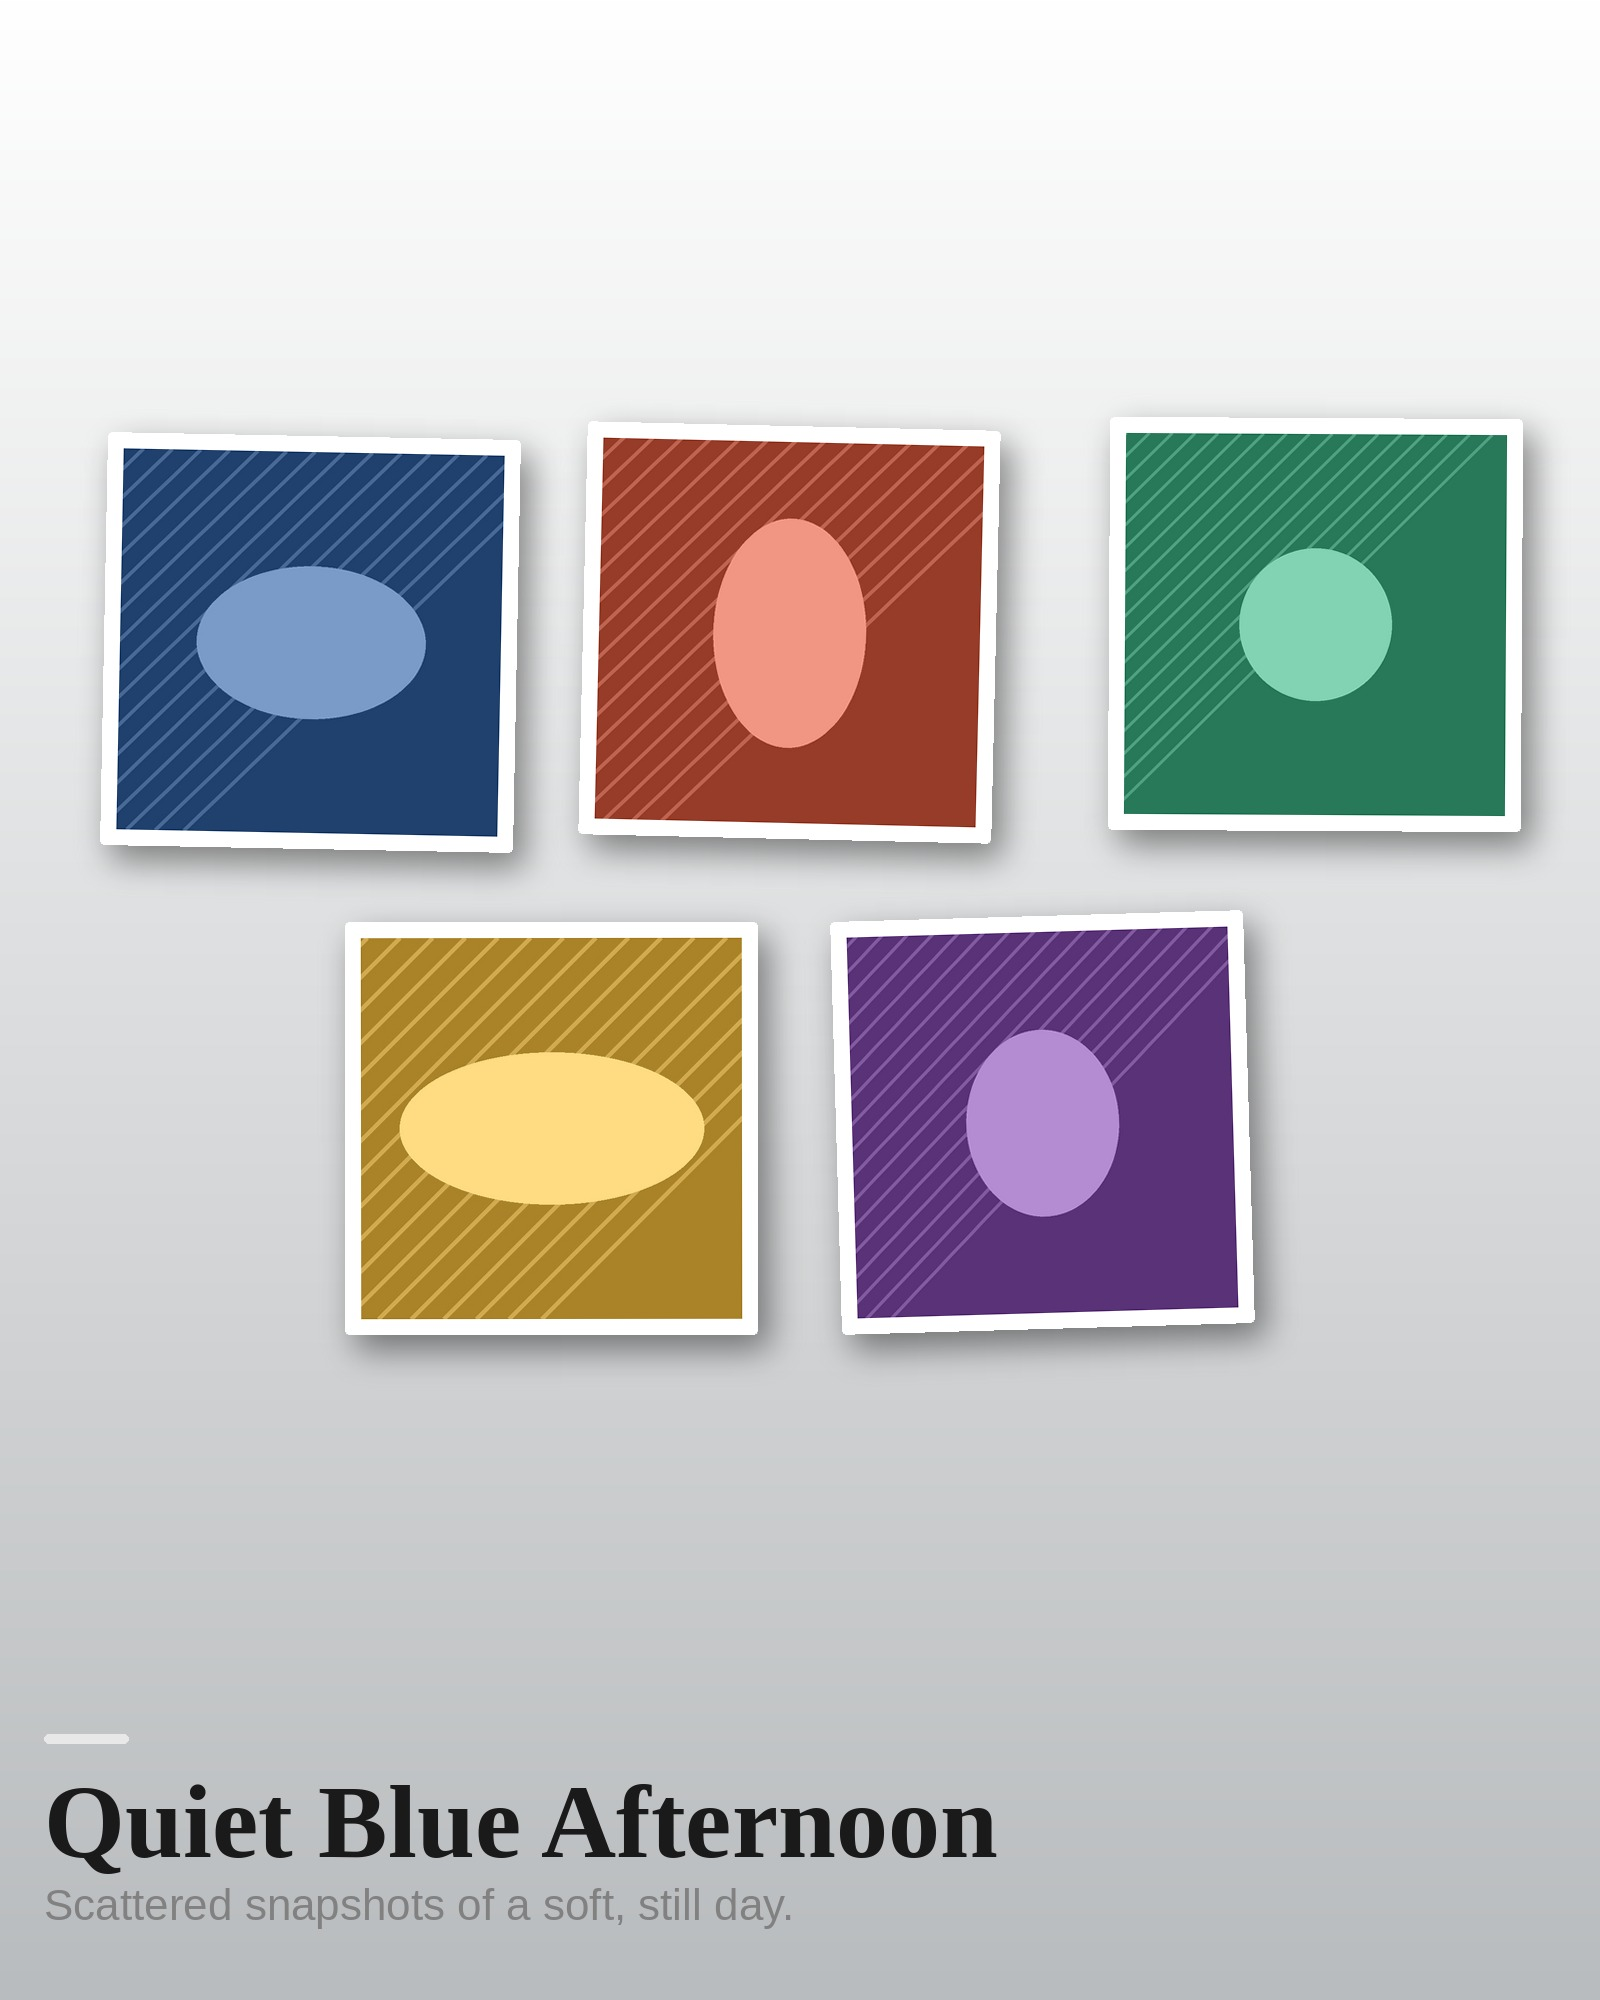
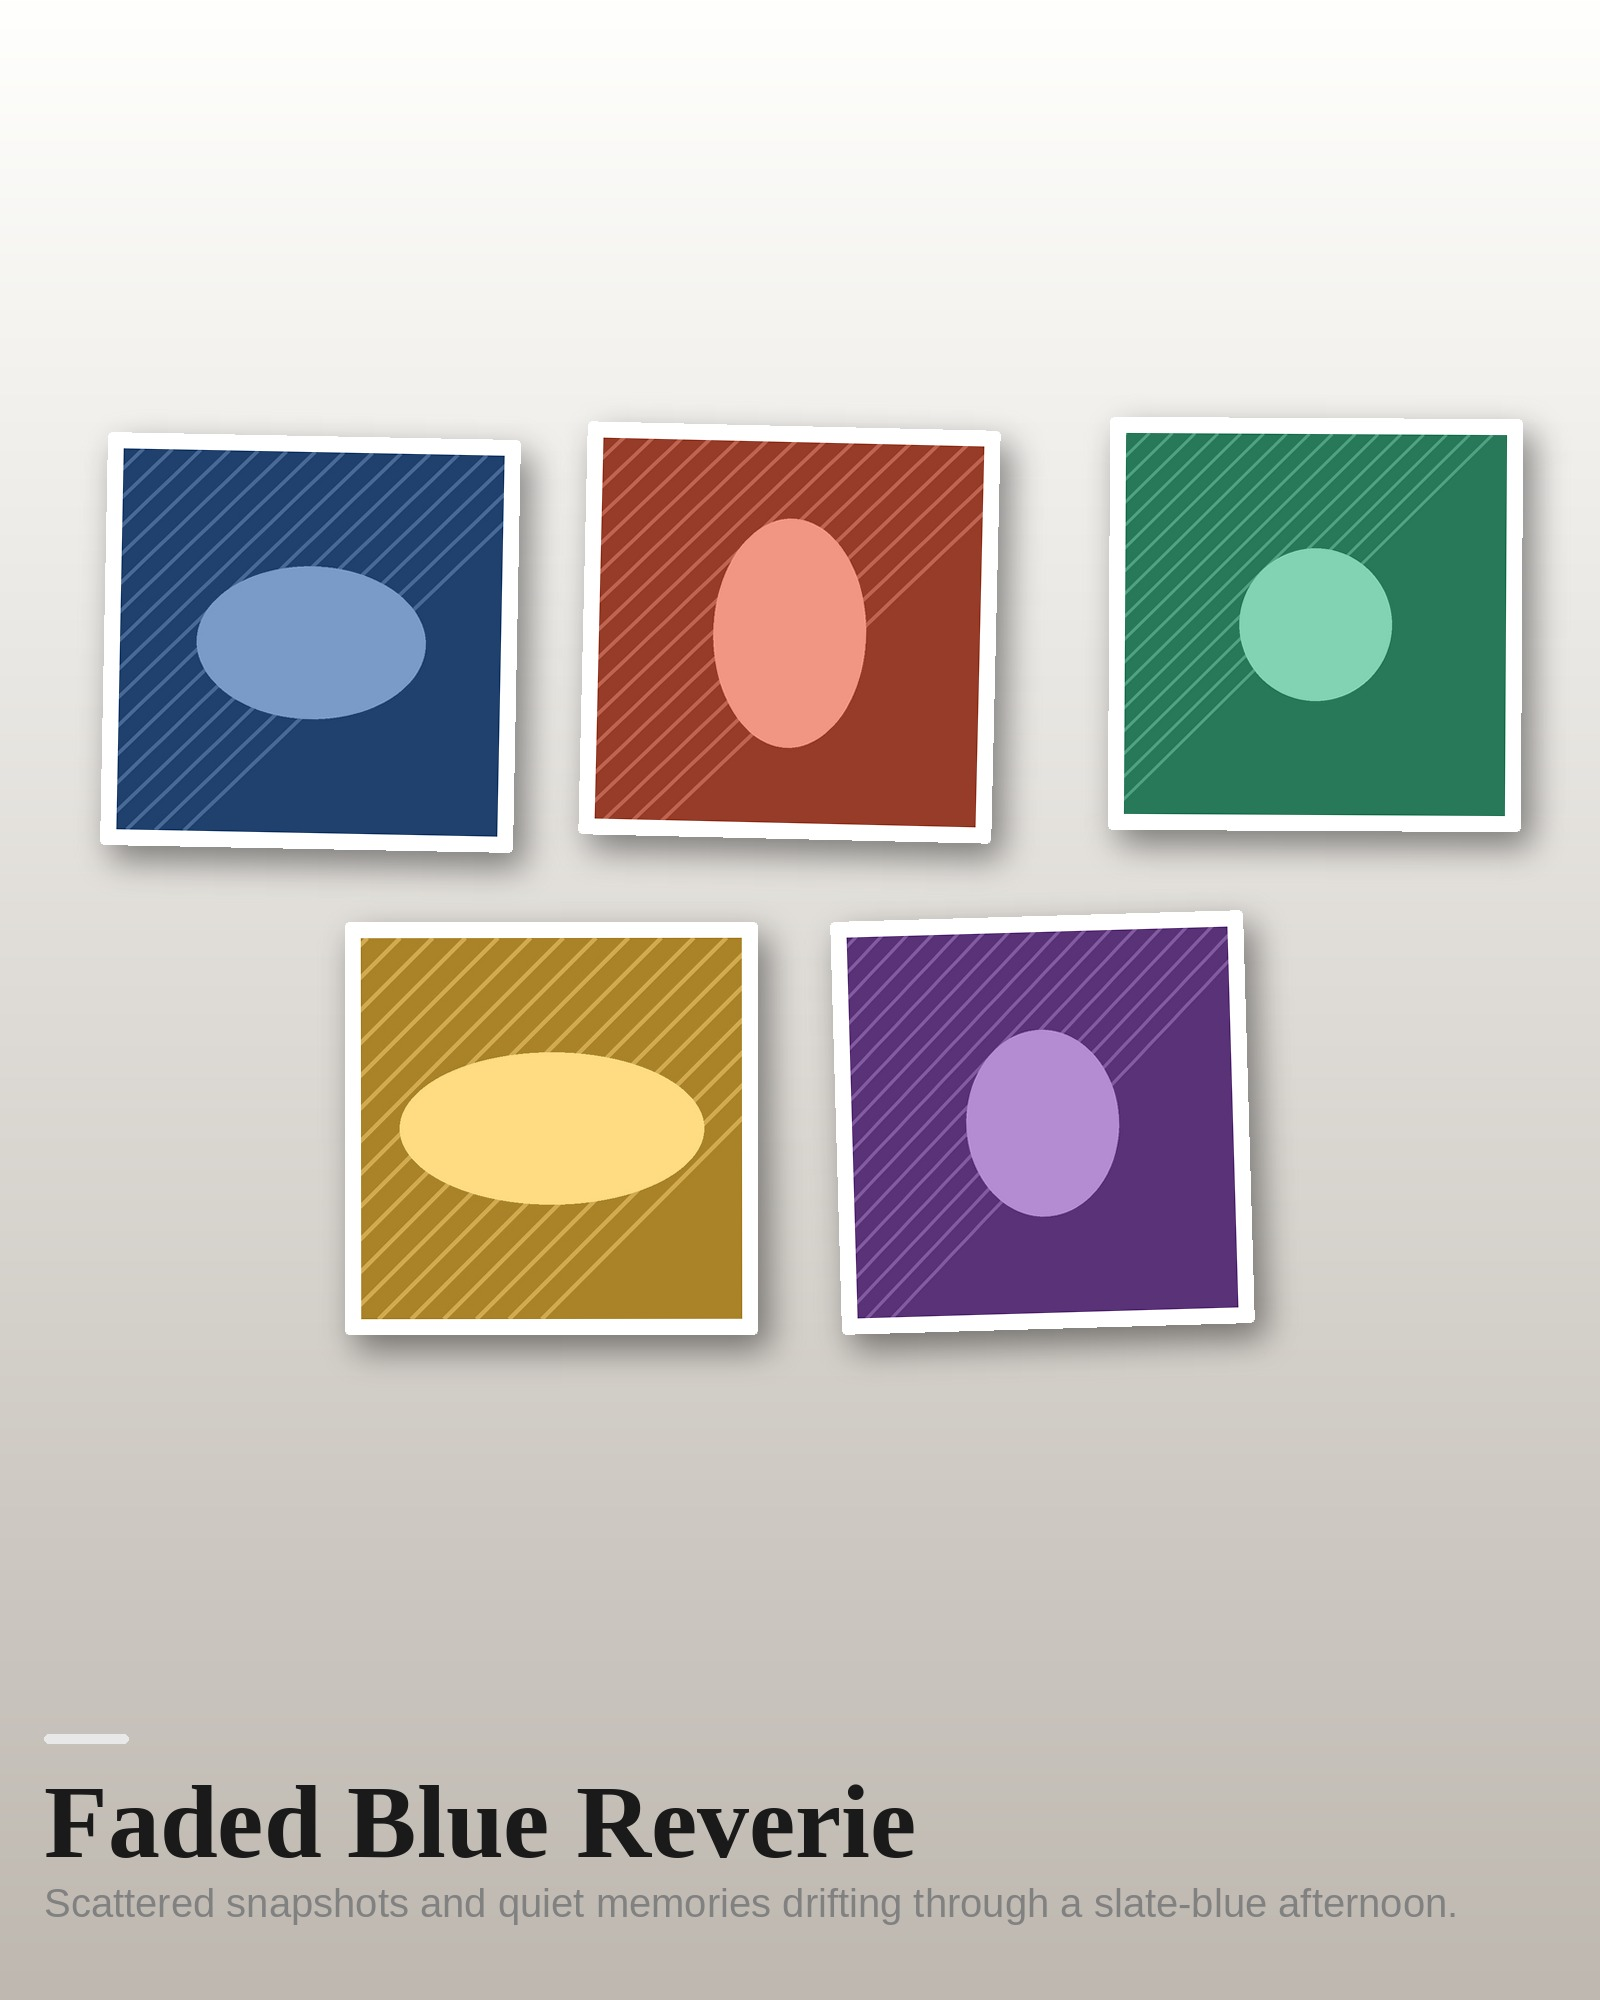
collage: build from template [skip ci]

Changed region(s): [[0.0312, 0.868, 0.6562, 0.961], [0.6875, 0.93, 0.9062, 0.961]]

diff --git a/collage-template.md b/collage-template.md
@@ -40,12 +40,12 @@ photos:
 
 ![collage](collage/output/collage.jpg)
 
-- **Title:** Quiet Blue Afternoon
-- **Mood:** serene
-- **Layout:** polaroid (score 78.0, judge: vision)
+- **Title:** Faded Blue Reverie
+- **Mood:** nostalgic
+- **Layout:** polaroid (score 72.0, judge: vision)
 - **Theme source:** template-vision
 - **Photos:** 5
 - **Committed image:** [`collage/output/collage.jpg`](collage/output/collage.jpg)
-- **Built:** 2026-07-04 21:44:22 UTC
+- **Built:** 2026-07-04 21:46:15 UTC
 
 <!-- RESULT:END -->